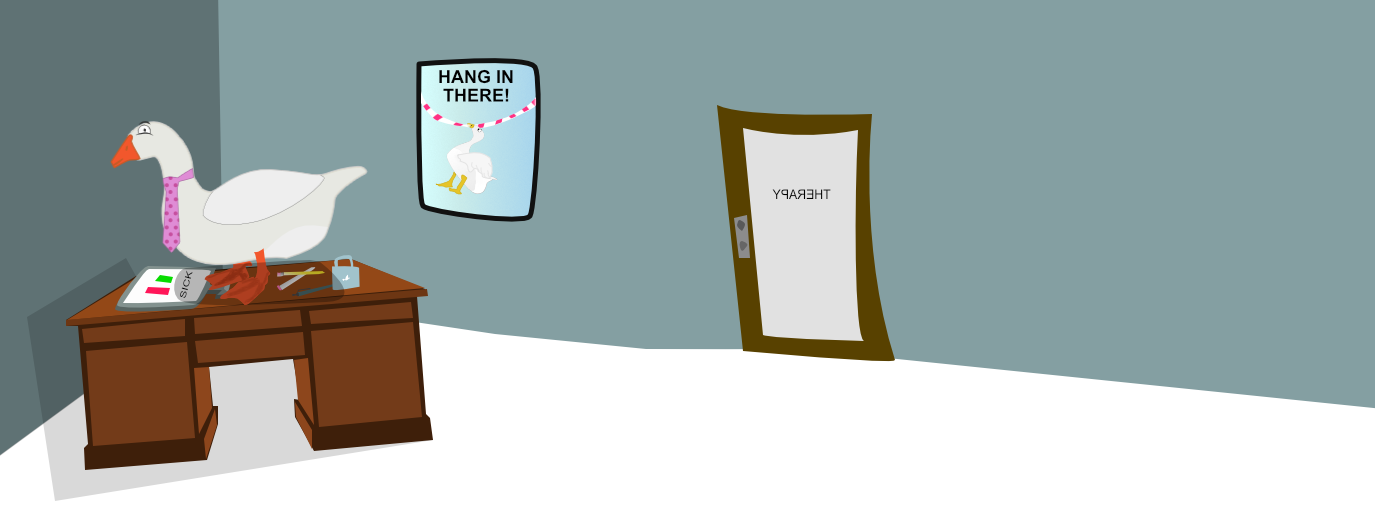
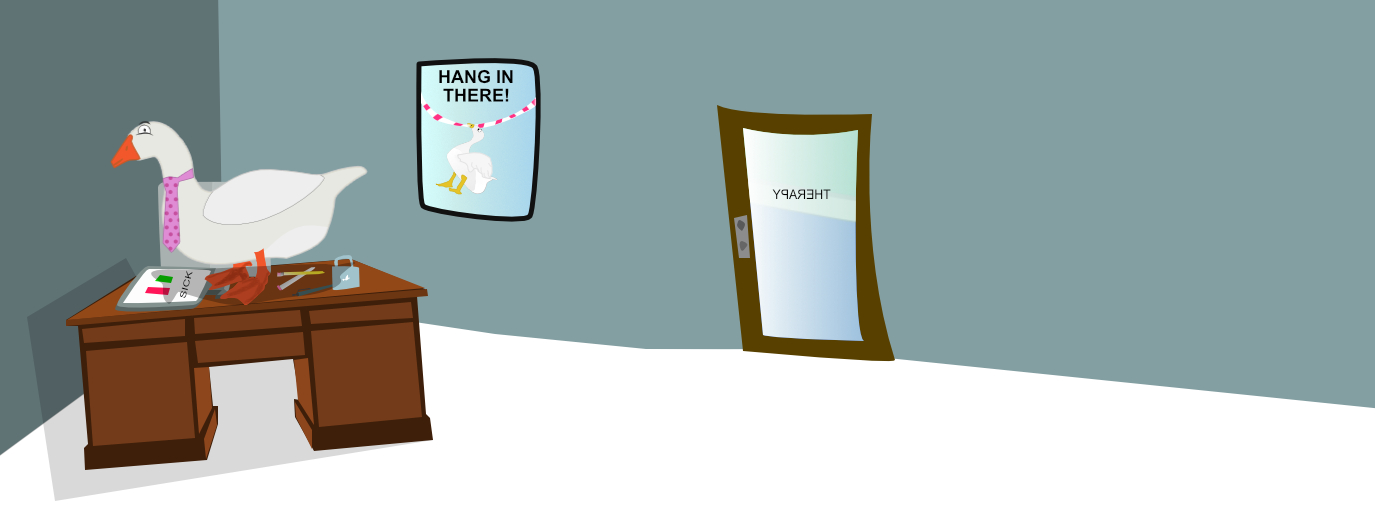
goosy

diff --git a/apps/goosepond/static/js/therapy.js b/apps/goosepond/static/js/therapy.js
@@ -65,7 +65,7 @@ $(document).ready(function() {
         if (event.which == 13) {
             var inputContent = input.val()
             if (inputContent != ""){
-                bodytext += `<div class="bubble"><span class="tag is-info is-large user-bubble">${inputContent}</span><br></div>`
+                bodytext += `<span class="bubble tag is-info is-large user-bubble">${inputContent}</span><br>`
                 body.html(bodytext)
                 input.val("")
                 scrollDown()
@@ -74,25 +74,25 @@ $(document).ready(function() {
                 //Delayed honking
                 var preHonkBodyText = bodytext
                 setTimeout(function() {
-                    bodytext = preHonkBodyText + `<div class="bubble"><span class="tag is-primary is-large">.</span></div>`
+                    bodytext = preHonkBodyText + `<span class="doctor-bubble bubble tag is-primary is-large">.</span>`
                     body.html(bodytext);
                     scrollDown()
                 }, 500); 
 
                 setTimeout(function() {
-                    bodytext = preHonkBodyText + `<div class="bubble"><span class="tag is-primary is-large">..</span></div>`
+                    bodytext = preHonkBodyText + `<span class="doctor-bubble bubble tag is-primary is-large">..</span>`
                     body.html(bodytext);
                     scrollDown()
                 }, 1000); 
 
                 setTimeout(function() {
-                    bodytext = preHonkBodyText + `<div class="bubble"><span class="tag is-primary is-large">...</span></div>`
+                    bodytext = preHonkBodyText + `<span class="doctor-bubble bubble tag is-primary is-large">...</span>`
                     body.html(bodytext);
                     scrollDown()
                 }, 1500); 
 
                 setTimeout(function() {
-                    bodytext = preHonkBodyText + `<div class="bubble"><span class="tag is-primary is-large">${getRandomHonk()}</span></div>`
+                    bodytext = preHonkBodyText + `<span class="doctor-bubble bubble tag is-primary is-large">${getRandomHonk()}</span>`
                     body.html(bodytext);
                     scrollDown()
                     input.prop("disabled", false)

diff --git a/apps/goosepond/templates/therapy.html b/apps/goosepond/templates/therapy.html
@@ -14,8 +14,12 @@
         <audio id="therapy-enter">
             <source src="{% static '/sounds/goose_knocking_shit_over.ogg' %}" type="audio/ogg">
         </audio>
-        <img id="waiting" class="office" src="{% static '/images/therapy_office_waiting.png' %}">
-        <img id="session" class="office" src="{% static '/images/therapy_office_in_session.png' %}">
+        <img id="waiting" class="office" usemap="#door-map" src="{% static '/images/therapy_office_waiting.png' %}">
+        <img id="session" class="office" usemap="#door-map" src="{% static '/images/therapy_office_in_session.png' %}">
+        <img id="leaving" class="office" usemap="#door-map" src="{% static '/images/therapy_office_in_session_door_open.png' %}">
+        <map id="door-map">
+            <area id="door-area" href="#" coords="713,103,899,363" shape="rect">
+        </map>
         <div class="columns is-mobile">
             <div class="column is-half is-offset-one-quarter">
                 <!--This is the chatbox-->

diff --git a/apps/goosepond/static/css/therapy.css b/apps/goosepond/static/css/therapy.css
@@ -9,8 +9,13 @@ html {
     z-index: -1;
 }
 
-#session {
+#session,
+#leaving {
     display: none;
+}
+
+#door-area {
+    cursor: pointer;
 }
 
 .chatbox {
@@ -23,12 +28,20 @@ html {
 }
 
 .bubble {
-    min-height: 40px;
     margin-bottom: 3px;
+    white-space: normal !important; 
+    word-break: break-word;
+    max-width: 50%;
+    height: fit-content !important;
+}
+
+.doctor-bubble {
+    margin-right: 50%
 }
 
 .user-bubble {
     float: right;
+    margin-left: 50%;
 }
 
 .tag {
